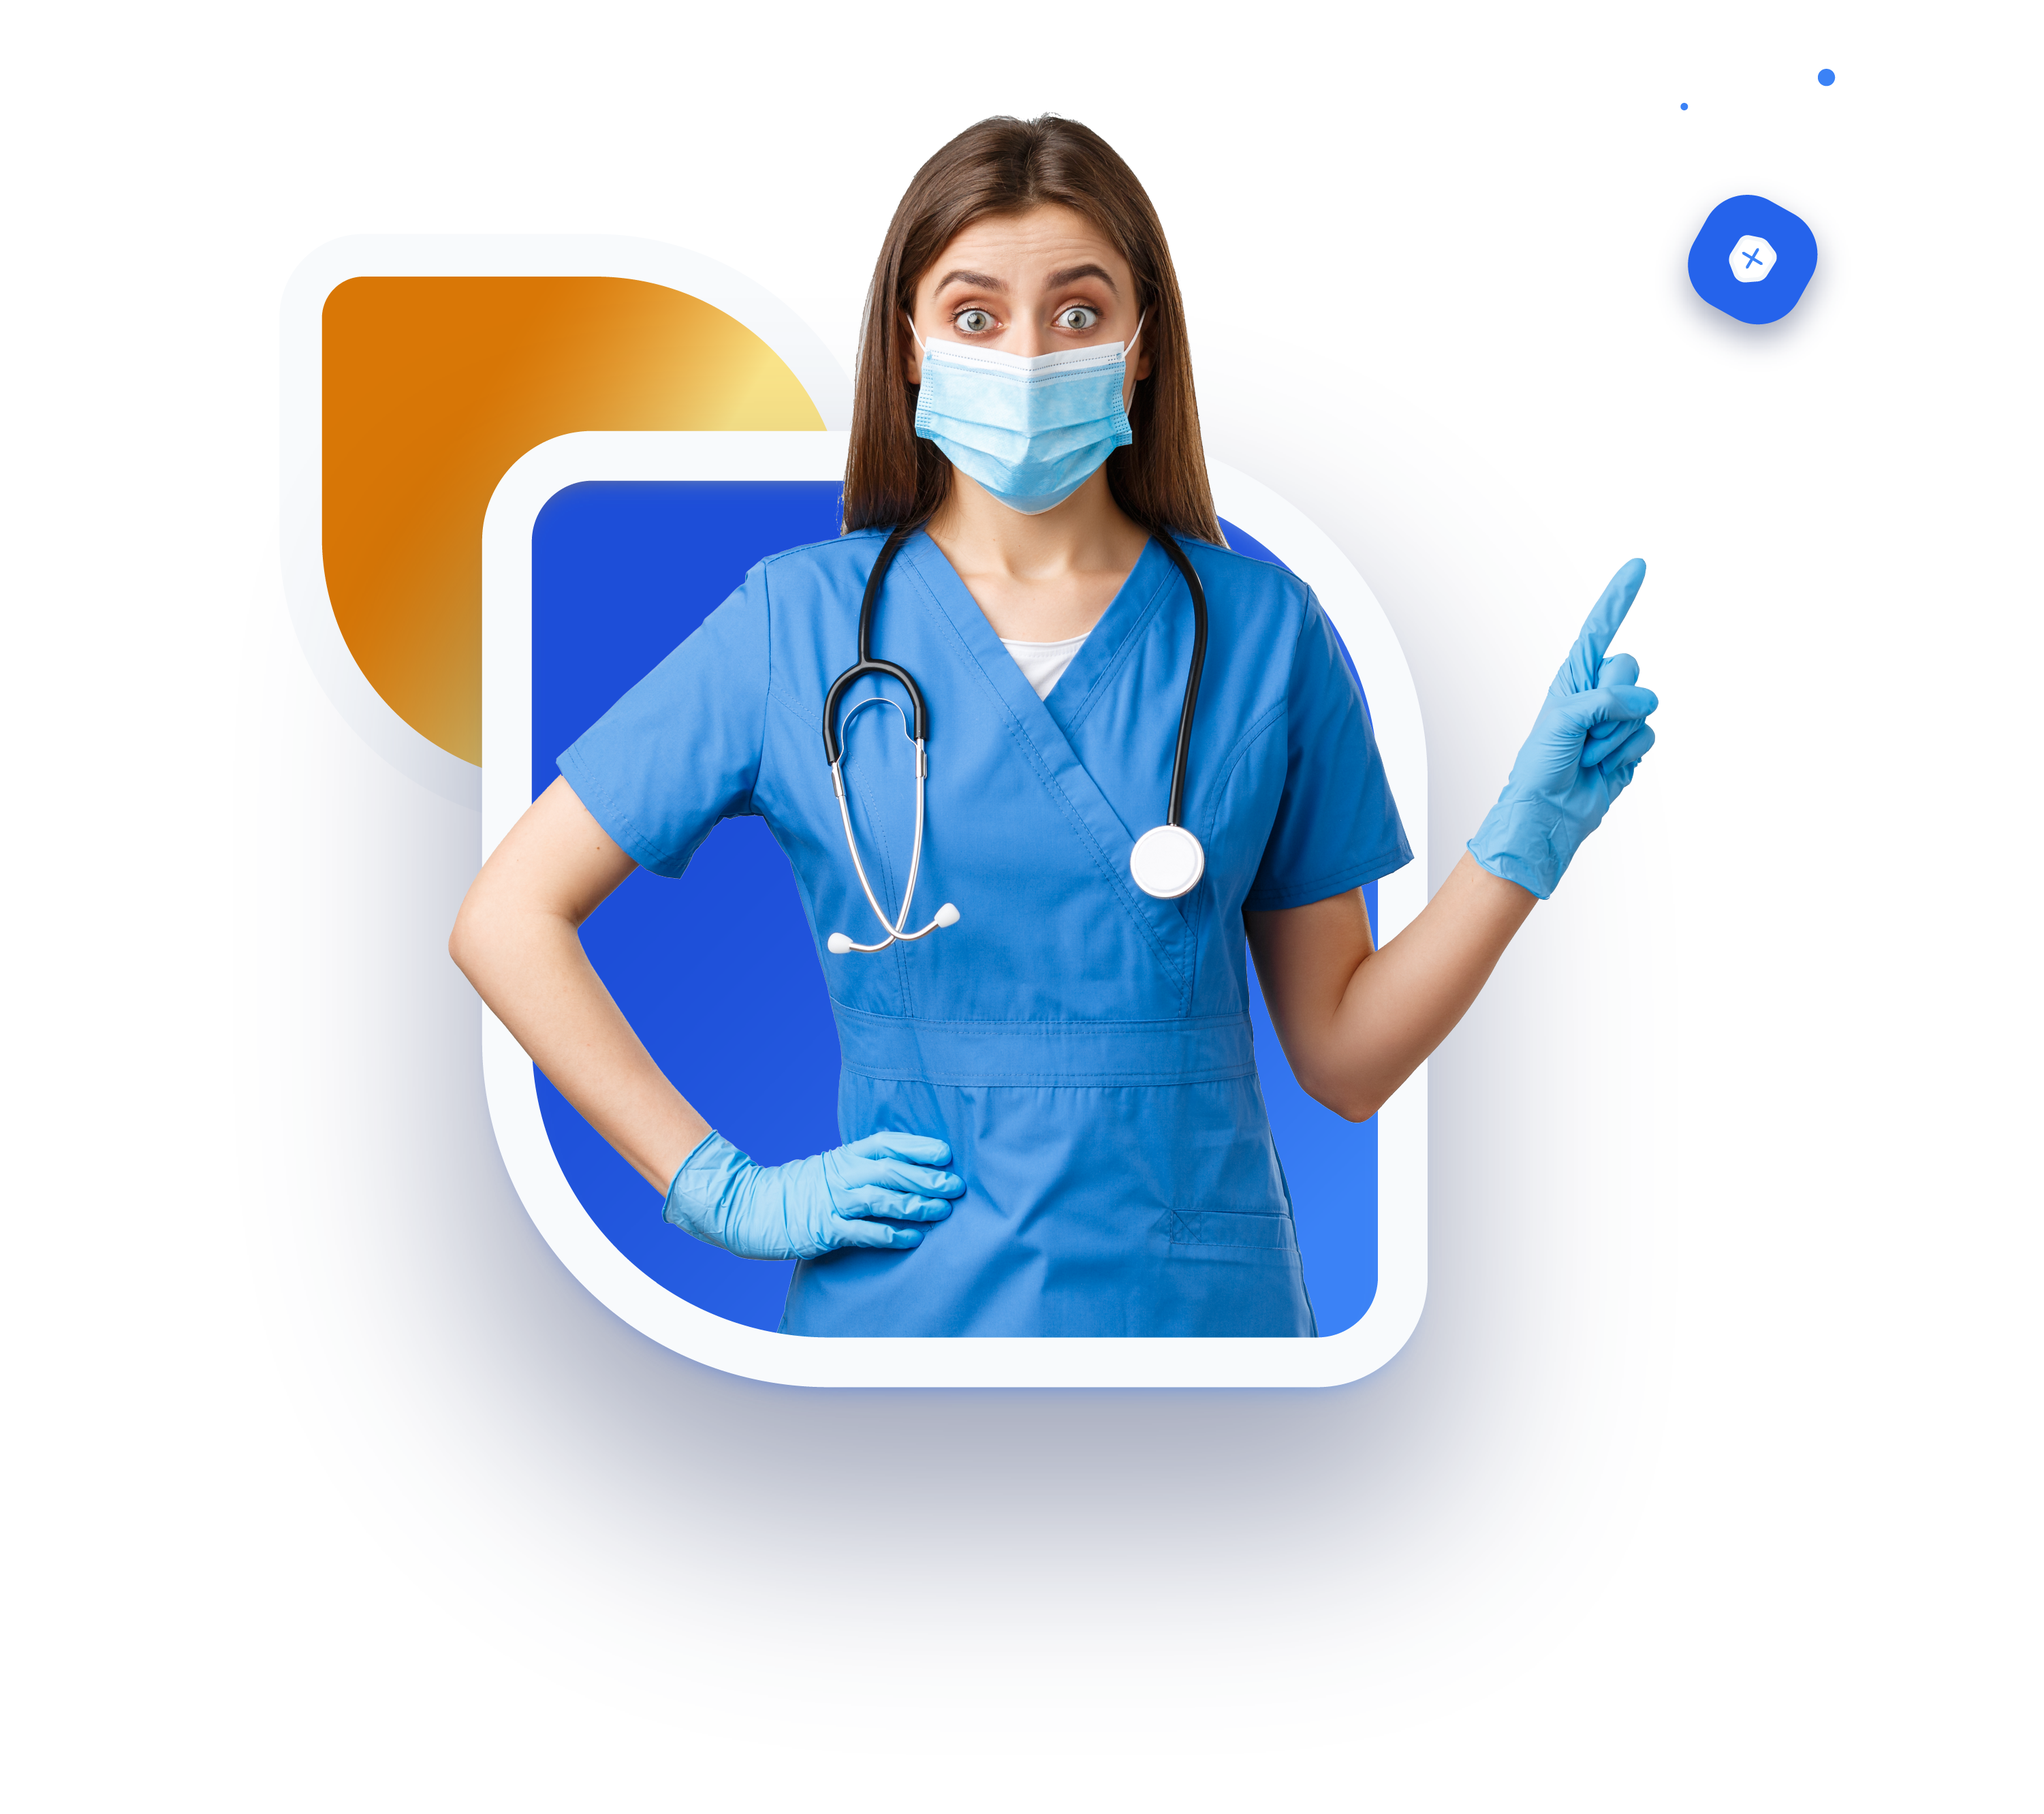
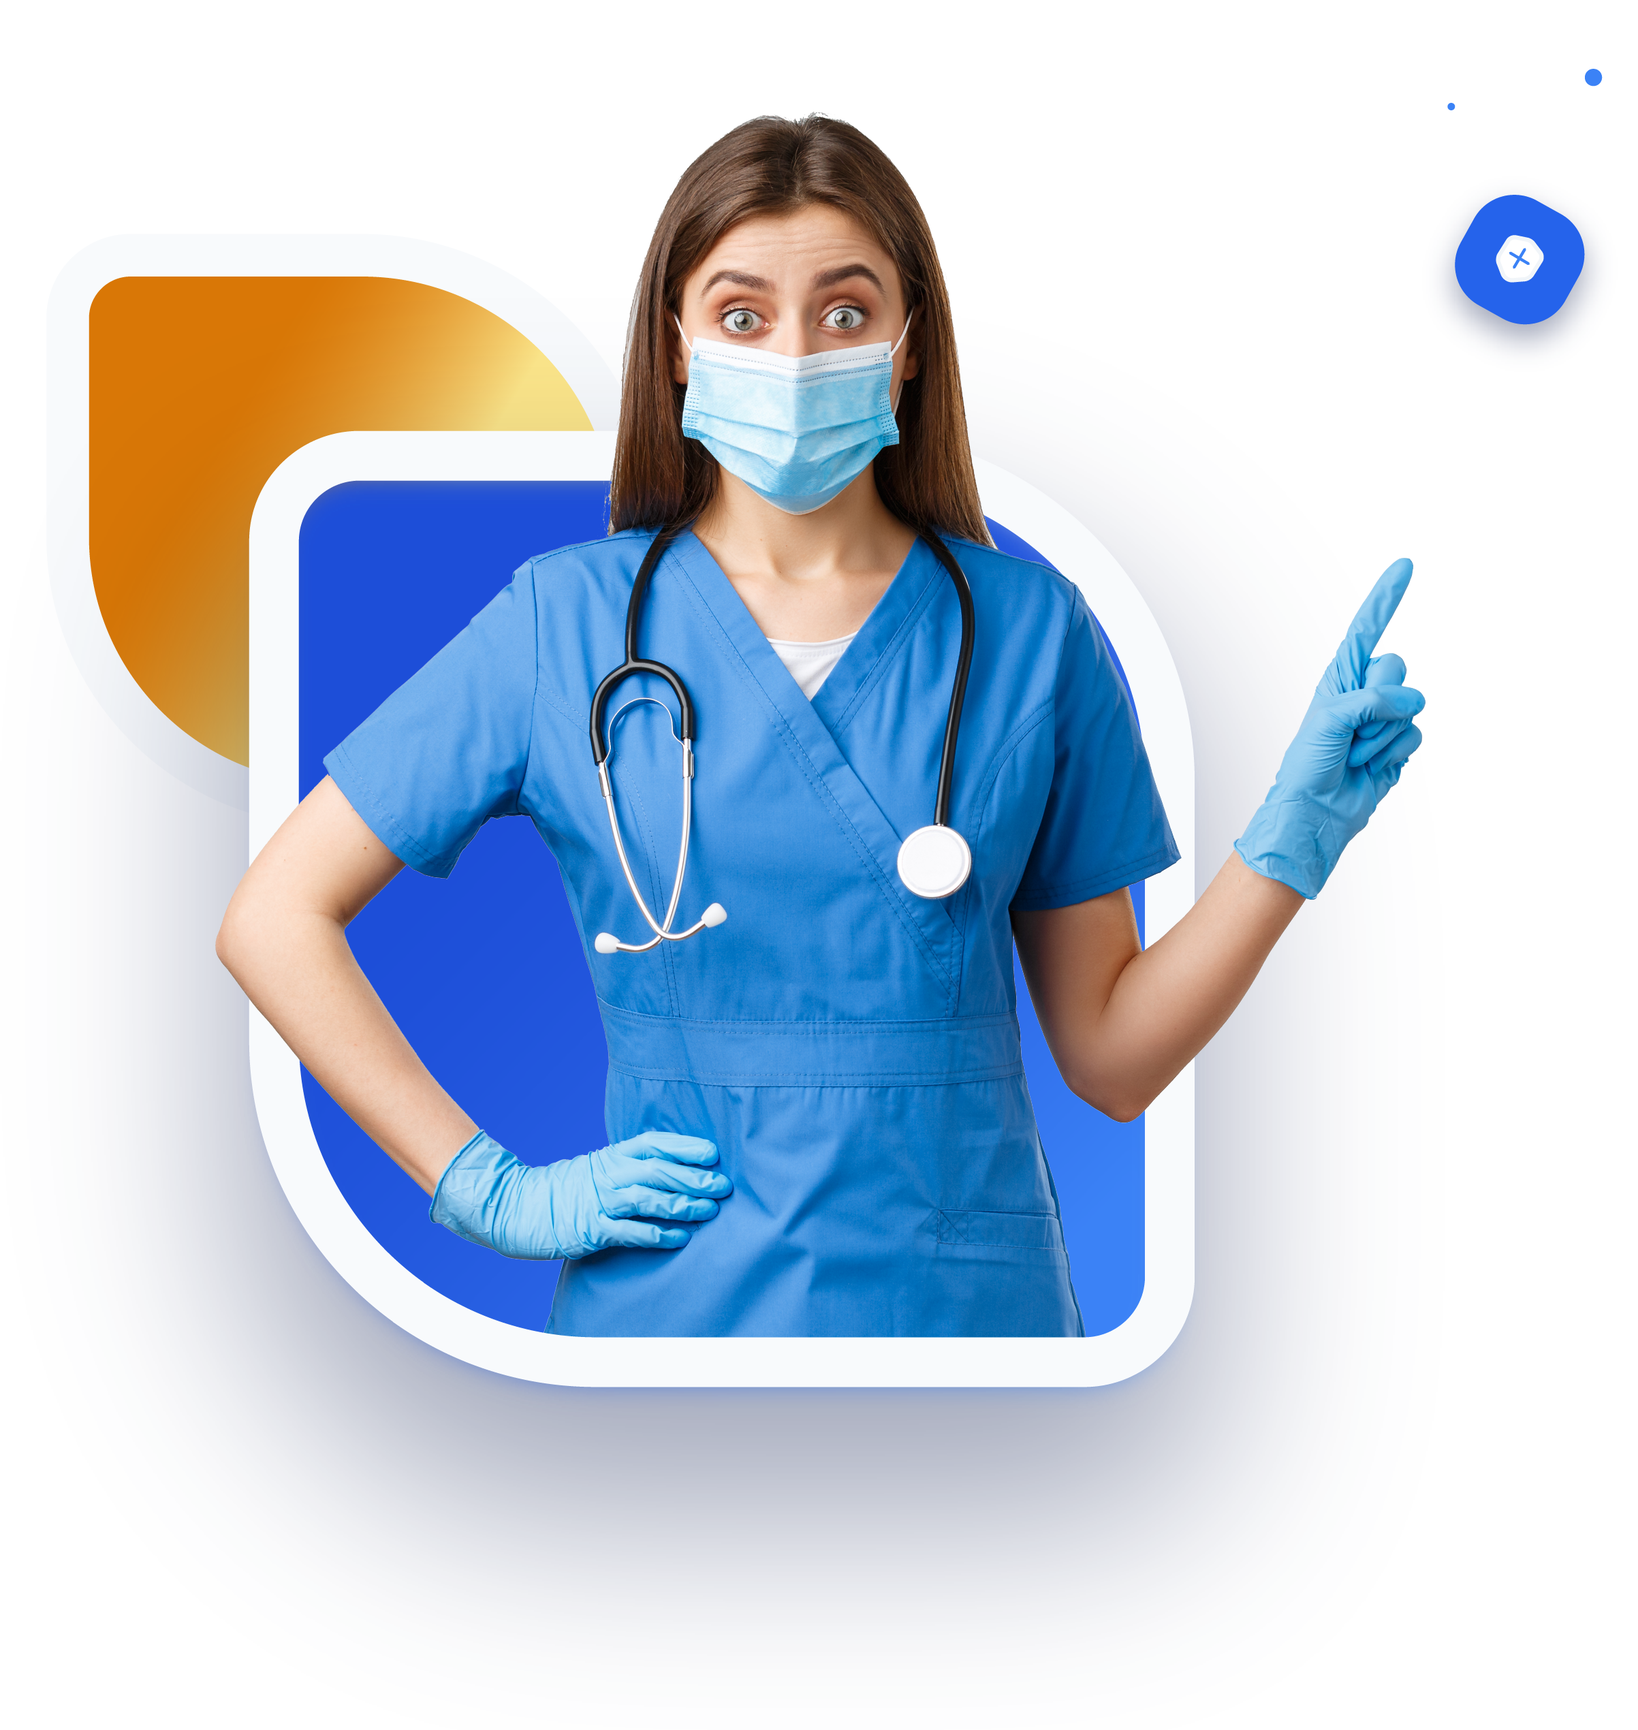
responsive first section

diff --git a/src/components/sections/firstSection.js b/src/components/sections/firstSection.js
@@ -3,80 +3,80 @@ import HeaderLine from "../headerLine/headerLine";
 
 const FirstSection = () => {
   return (
-    <section className="container md:max-w-screen-xl mx-auto mt-12 md:mt-16 ">
+    <section className="container md:max-w-screen-md lg:max-w-screen-lg xl:max-w-screen-xl mx-auto mt-12 md:mt-16 ">
       <HeaderLine />
-      <div className="flex  md:flex-row md:gap-x-5 md:justify-between ">
-        <div className="flex flex-col gap-y-2 mt-8">
+      <div className="grid grid-cols-12 px-4">
+        <div className="col-span-12 md:col-span-6 lg:col-span-5 xl:col-span-6 flex flex-col gap-y-2 mt-0 md:mt-8 order-2 md:order-1 px-4">
           <div className="flex max-w-max items-center gap-x-2 rounded-full py-1 px-4 bg-blue-200 shadow-md opacity-70">
-            <span className="text-orange-500 text-2xl">
+            <span className="text-orange-500 lg:text-2xl text-xl">
               <TbVaccine />
             </span>
-            <span className="text-sm text-blue-600 font-semibold ">
+            <span className="text-xs lg:text-sm text-blue-600 font-semibold ">
               ناراحت نباش ، بیا واکسن بزنیم
             </span>
           </div>
-          <div className="text-center md:text-right ">
-            <h1 className="text-blue-950 font-black text-[50px] leading-snug">
+          <div className="text-center md:text-right px-2 pt-2">
+            <h1 className="text-blue-950 font-black text-4xl md:text-3xl  lg:text-[50px] xl:text-[50px] lg:leading-snug">
               با واکسیناسیون می توانیم به این بیماری همه گیر پایان دهیم
             </h1>
           </div>
-          <div className="max-w-lg">
-            <h2 className="text-gray-500 font-normal text-lg">
+          <div className="max-w-xl border-b-2 md:border-b-0 py-4 border-slate-300">
+            <h2 className="text-gray-500 font-normal text-sm lg:text-base xl:text-xl">
               با واکسیناسیون، تعداد موارد انتقال کووید-19 کاهش می یابد و می
               تواند ایمنی همگانی ایجاد شود.
             </h2>
           </div>
-          <div className="mt-3">
+          <div className="mt-3 flex items-center justify-center md:justify-start">
             <button className="py-2 px-10 bg-blue-950 text-white rounded-full tracking-wide shadow-2xl  shadow-blue-900 transition-all ease-in-out duration-100">
               گرفتن نوبت
             </button>
           </div>
         </div>
-        <div className="w-full relative z-30">
-          <div className="">
+        <div className="col-span-12 md:col-span-6 lg:col-span-7 xl:col-span-6 relative z-30 order-1 md:order-2">
+          <div className="aspect-none md:aspect-w-4 md:aspect-h-4">
             <img
               src="/images/vaccine.png"
               alt="واکسن واکسناسیون"
-              className=""
+              className="object-contain object-center h-full w-full "
             />
           </div>
-          <div className="absolute left-14 bottom-40">
-            <div className="flex flex-col gap-y-4 py-2 px-4 w-44 backdrop-brightness-[1.3] backdrop-blur-3xl opacity-90 rounded-3xl shadow">
+          <div className="hidden md:block absolute left-0 bottom-[102px] lg:bottom-36 xl:bottom-44">
+            <div className="flex flex-col gap-y-4 py-2 px-4 w-28 lg:w-44 lg:max-h-full max-h-24 overflow-auto backdrop-brightness-[1.3] backdrop-blur-3xl opacity-90 rounded-3xl shadow">
               <div className="flex justify-center mt-2 items-center gap-x-2">
                 {[1, 2, 3, 4, 5].map((_, i) => {
                   return (
-                    <span key={i} className="text-yellow-400">
+                    <span key={i} className="text-yellow-400 text-sm">
                       <TbStarFilled />
                     </span>
                   );
                 })}
               </div>
               <div className="flex flex-col ">
-                <p className="text-gray-600 text-sm font-semibold italic">
+                <p className="text-gray-600 text-[11px] lg:text-xs font-semibold italic">
                   &#8221; پس از واکسینه شدن بدنم احساس سلامتی و تندرستی می کند،
                   اشتهایم افزایش یافته است .&#8221;
                 </p>
               </div>
               <div className="flex items-center gap-x-2">
-                <span className="w-8 h-8   rounded-full ring-2 ring-slate-100 bg-red-300"></span>
-                <span className="text-blue-950 text-sm font-bold">
+                <span className="hidden lg:block lg:w-6 lg:h-6 xl:w-8 xl:h-8 rounded-full ring-2 ring-slate-100 bg-red-300"></span>
+                <span className="text-blue-950 text-[10px] lg:text-xs font-bold ">
                   متین اسدسنگابی
                 </span>
               </div>
             </div>
           </div>
-          <div className="absolute right-20 bottom-52">
-            <div className="flex items-center gap-x-4 py-3 px-4 bg-slate-100 bg-opacity-[0.85] rounded-3xl shadow">
+          <div className="hidden md:block absolute -right-0 bottom-24 lg:right-16 xl:right-20 lg:bottom-40 xl:bottom-52">
+            <div className="flex items-center gap-x-4 py-1 lg:py-3 px-4 bg-slate-100 bg-opacity-[0.85] rounded-2xl xl:rounded-3xl shadow">
               <div className="flex">
-                <span className="w-8 h-8  -ml-3 z-20 rounded-full ring-2 ring-slate-100 bg-red-300"></span>
-                <span className="w-8 h-8  -ml-3 z-10 rounded-full ring-2 ring-slate-100 bg-red-300"></span>
-                <span className="w-8 h-8 ml-0 rounded-full ring-2 ring-slate-100 bg-red-600"></span>
+                <span className="w-6 h-6 lg:w-7 lg:h-7 xl:w-8 xl:h-8  -ml-3 z-20 rounded-full ring-2 ring-slate-100 bg-red-300"></span>
+                <span className="w-6 h-6 lg:w-7 lg:h-7 xl:w-8 xl:h-8  -ml-3 z-10 rounded-full ring-2 ring-slate-100 bg-red-300"></span>
+                <span className="w-6 h-6 lg:w-7 lg:h-7 xl:w-8 xl:h-8 ml-0 rounded-full ring-2 ring-slate-100 bg-red-600"></span>
               </div>
               <div className="flex flex-col ">
-                <span className="text-xl text-blue-950 font-black font-sans">
+                <span className="text-base lg:text-xl text-blue-950 font-black font-sans">
                   +125k
                 </span>
-                <span className=" text-blue-950 font-semibold text-xs">
+                <span className=" text-blue-950 font-semibold text-[10px] lg:text-xs">
                   بهبودی بیماران
                 </span>
               </div>
@@ -89,3 +89,4 @@ const FirstSection = () => {
 };
 
 export default FirstSection;
+

diff --git a/src/container/layout/header.js b/src/container/layout/header.js
@@ -9,7 +9,7 @@ const navigation = [
 const Header = () => {
   return (
     <header className="sticky top-0 w-full transition-all ease-in-out duration-100 z-40 backdrop-blur-xl blur-0 opacity-100">
-      <div className="container xl:max-w-screen-xl top-0 py-2  mx-auto px-2 md:px-0">
+      <div className="container xl:max-w-screen-xl top-0 py-2  mx-auto px-2 lg:px-0">
         <nav className="flex items-center justify-between">
           <div className="w-full md:hidden flex items-center justify-between">
             <Link href={"/"}>
@@ -26,9 +26,8 @@ const Header = () => {
           <Link href={"/"}>
             <img
               src={"/images/logo.png"}
-              width={140}
-              height={35}
-              className="hidden md:block"
+              
+              className="hidden md:block w-28 "
             />
           </Link>
           <div className="hidden md:flex items-center gap-x-20">

diff --git a/src/components/headerLine/headerLine.js b/src/components/headerLine/headerLine.js
@@ -6,7 +6,7 @@ const HeaderLine = () => {
         width="800"
         height="500"
         fill="#ff12cc"
-        className="absolute  left-44 top-0  hidden md:block z-30 rotate-[100deg] "
+        className=" absolute left-44 top-0  hidden lg:block z-30 rotate-[100deg] "
       >
         <path
           fill="url(#pattern_svg__a)"

diff --git a/tailwind.config.js b/tailwind.config.js
@@ -9,5 +9,10 @@ module.exports = {
   theme: {
     extend: {},
   },
-  plugins: [],
+  corePlugins: {
+    aspectRatio: false,
+  },
+  plugins: [
+    require('@tailwindcss/aspect-ratio'),
+  ],
 };
